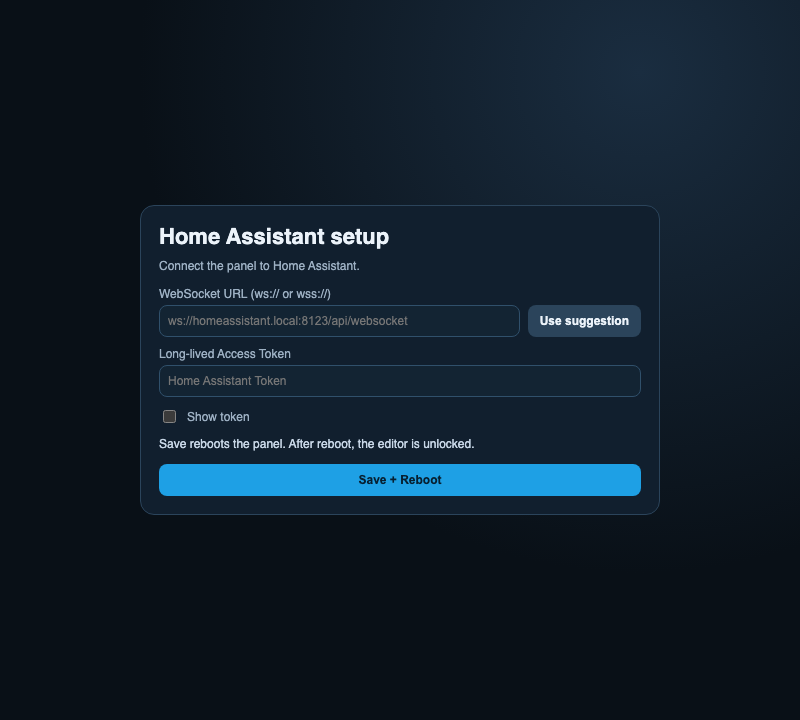
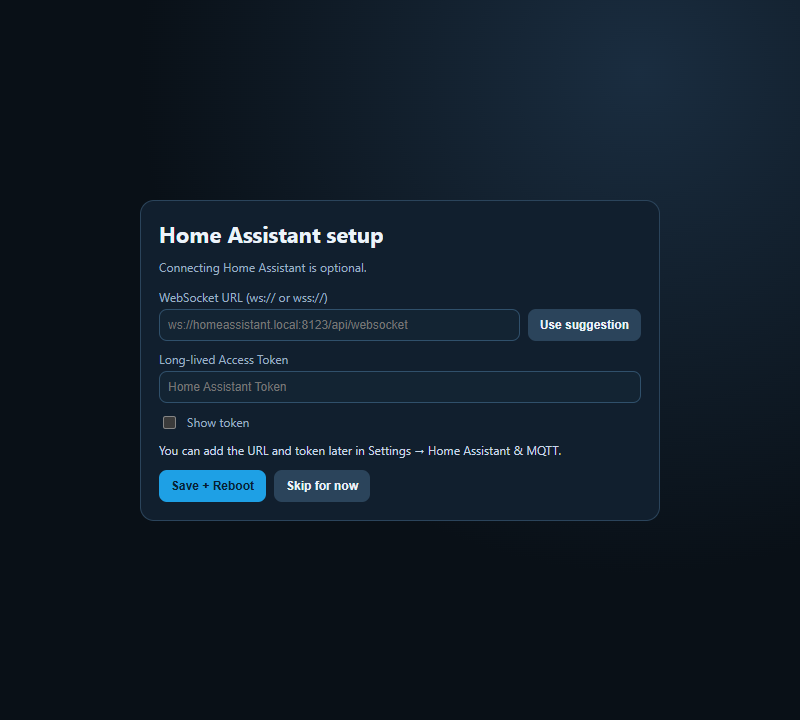
docs(ha): document optional Home Assistant setup
Explain how to skip and connect later, document the widget connection check, and update the setup screenshot.

Changed region(s): [[0.1875, 0.3056, 0.8125, 0.7028], [0.6562, 0.3972, 0.8125, 0.4889]]

diff --git a/docs/getting-started.md b/docs/getting-started.md
@@ -5,7 +5,7 @@ Install a ready-made image, connect the panel and operate your first light. You 
 
 - A [supported display and revision](choose-display.md), with its power supply and a USB **data** cable.
 - A computer with desktop **Chrome or Edge** for USB installation. Safari and Firefox do not offer this Web Serial route.
-- Your home Wi-Fi name and password, and access to Home Assistant **2026.10 or newer**.
+- Your home Wi-Fi name and password. For widgets that use Home Assistant, you also need access to Home Assistant **2026.10 or newer**.
 - An HA administrator account with at least one light already working in HA.
   If you have no light, use a Sensor widget instead and check that its value appears.
 
@@ -83,7 +83,7 @@ backup. Opening a serial port can restart the panel.
    *The name and `maple-river-42` in the picture are examples; use the credentials on your own panel.*
 2. Join that Wi-Fi network and open `http://192.168.4.1`.
 3. Choose your country, scan for your home Wi-Fi, enter its password and save.
-4. After the reboot, read the panel's address from the display or your router's DHCP list and open
+4. After the reboot, tap the network indicator in the top bar or check your router's DHCP list for the panel's address. Open
    `http://<panel-ip>` from the same network.
 
 If a saved network is not reachable at boot (for example after a power cut, while the router is still starting), the display
@@ -91,6 +91,10 @@ names that network and the access point stays available for a new setup. The pan
 restarts into the dashboard by itself once it answers; a retry pauses while a device is connected to the access point.
 
 ## 4. Connect Home Assistant
+
+Select **Skip for now** to finish setup immediately and use the editor without entering
+Home Assistant credentials. The panel remembers your choice across browsers and restarts.
+You can connect later in **Settings → Home Assistant & MQTT**.
 
 ### Create an access token
 
@@ -119,9 +123,10 @@ The **WebSocket URL** field needs the complete address, including `/api/websocke
 Replace the host and port with yours. Use an address reachable from the panel's network;
 `localhost` refers to the panel itself. A normal `http://` or `https://` address is currently rejected by this field.
 
-![Home Assistant setup in the editor, with WebSocket URL and access-token fields](img/examples/setup-webui-ha.png){ width="600" }
+![Example setup page with Home Assistant address, token, Save + Reboot and Skip for now](img/examples/setup-webui-ha.png){ width="600" }
 
-Save the Home Assistant connection, wait for the panel to restart, then reload the editor.
+Use **Save + Reboot** in setup or **Save** in the editor. Wait for the panel to restart,
+then reload the editor.
 The Home Assistant status chip on the panel opens connection details; confirm that it is connected.
 For missing entities or a refused token, see [Home Assistant setup](home-assistant.md).
 

diff --git a/docs/editor.md b/docs/editor.md
@@ -1,8 +1,8 @@
 <!-- SPDX-License-Identifier: LicenseRef-FNCL-1.1 | Copyright (c) 2026 andre68723 -- file added in the andre68723/BETTA-HA-PANEL fork, see docs/release-notes.md -->
 # Web editor
 
-Open `http://<panel-ip>` in a browser once the panel has joined your Wi-Fi. The editor runs on the panel and
-edits its saved layout and settings. First-time Wi-Fi and Home Assistant setup are in
+Open `http://<panel-ip>` in a browser once the panel has joined your network. The editor runs on the panel and
+edits its saved layout and settings. Network setup and the optional Home Assistant connection are in
 [Install and set up](getting-started.md).
 
 ## Live Display
@@ -48,6 +48,12 @@ On desktop, the two lists scroll independently so the preview and actions stay i
 Dragging and resizing snap to 2 logical pixels; preview grid lines are 10 logical pixels apart.
 Arrow keys move a selected widget by 2 logical pixels, or 1 with Shift held.
 Widget size limits and canvas edges take priority over snapping.
+
+**+ Widget** checks the panel's Home Assistant connection before looking up entities
+or adding a widget that uses Home Assistant. It reports missing settings,
+rejected credentials or an unavailable connection. Panel administrators can open
+**Home Assistant & MQTT** from the message. Select **Retry** after checking the
+address, token or connection. **Empty Tile** is available without Home Assistant.
 
 Entity searches explain when the panel is busy, short of memory or waiting for
 Home Assistant. A stalled search stops with a reason and a **Retry** button.

diff --git a/docs/home-assistant.md b/docs/home-assistant.md
@@ -2,10 +2,10 @@
 
 # Home Assistant setup
 
-For the first connection, follow [Install and set up](getting-started.md#4-connect-home-assistant):
-it covers the token, required administrator account and complete WebSocket address.
-To change them later, open **Settings → Home Assistant & MQTT**, update the address/token and save;
-the panel restarts.
+Connect during setup or select **Skip for now** and continue to the editor.
+To connect later, open **Settings → Home Assistant & MQTT**, enter the WebSocket URL and
+long-lived access token, then save. Changed credentials take effect after the panel restarts.
+See the token, administrator permissions and address examples in [Install and set up](getting-started.md#4-connect-home-assistant).
 
 Most widgets use entities you already have. Choose them by name in the editor; the
 [widget library](widgets/README.md) lists compatible entity types and any extra integrations.

diff --git a/docs/development/entity-search.md b/docs/development/entity-search.md
@@ -8,6 +8,12 @@ Room creation uses area discovery instead of selecting one anchor.
 The entity-first search under **+ Widget** also filters its proposed widget types through these contracts;
 text sensors do not offer Graph and on/off-only lights do not offer Slider.
 
+The optional setup step submits `PUT /api/settings` with `{"skip_ha_setup":true}`.
+The administrator-only action stores `ha.setup_complete` without a restart.
+Widget creation uses `GET /api/ha/light_entities?status_only=1` to read the panel's
+connection status under the existing installer permission. This status request
+leaves the entity discovery queue untouched.
+
 The following covers every current widget and its entity fields. A domain-only rule is deliberate: for example,
 any cover class is valid for the Cover widget. Its supported features determine the available controls.
 

diff --git a/docs/release-notes.md b/docs/release-notes.md
@@ -8,6 +8,11 @@ Changes of **this fork**, compared with upstream v0.8.2. The release notes of th
 
 Changes since [v0.9.2-rc1](#v092-rc1).
 
+- **First setup:** after joining the network, the panel opens its dashboard.
+  Home Assistant can be skipped and connected later in **Settings → Home Assistant
+  & MQTT**. The widget chooser checks the connection and explains how to resolve
+  missing credentials or connectivity problems.
+
 - The top bar, default flip clock, clock screensavers, dated widgets and web editor
   use the [panel location's date format](editor.md#time-zones). Weekday names
   follow the interface language. Changes from the panel also update the editor's
